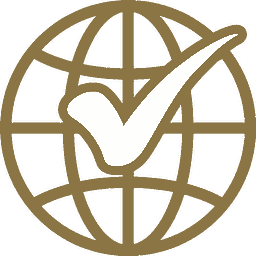
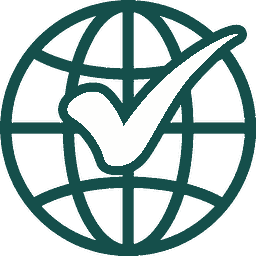
The accent is teal
Two colours, and they turned out to be the shape this palette already
had: one accent expressed twice, dark for light surfaces and light for
dark ones. #134E4A replaces the daylight gold, #4BB8B0 replaces the dusk
gold, and every text-gold, bg-gold and border-gold in twenty five files
follows without being touched. That is what the token was for.

Contrast improved rather than survived. The daylight accent measures
7.95:1 on the raised surface where the gold managed 4.70, so this is the
first accent here that clears AAA in daylight. Dusk sits at 7.06, which
is the AAA line to two decimal places.

The mark is recoloured artwork, not a tint

It is supplied PNG with two flat inks, so the gold ink is remapped pixel
by pixel and scaled by each pixel's own lightness, which keeps the
anti aliasing intact. The white check is untouched: a two ink logo with
one ink recoloured is still the same mark.

It ships twice because one ink cannot serve both modes. The accent is
2.0:1 on the daylight card and the deep teal is 1.2:1 on a dusk surface,
so either alone leaves the mark washed out on half the application. CSS
picks by data-mode, the same attribute the palette already switches on.
The original gold artwork is kept beside them.

The token is still called gold

Renaming it is a hundred and twenty class names across twenty five
files, which is a different change from choosing a colour and should not
share a diff with one. The comment above it says what happened and when.
[…]

diff --git a/resources/js/components/GeoVerifyMark.tsx b/resources/js/components/GeoVerifyMark.tsx
@@ -1,4 +1,5 @@
-import markUrl from '../../images/geoverify-mark.png';
+import markDaylightUrl from '../../images/geoverify-mark.png';
+import markDuskUrl from '../../images/geoverify-mark-dusk.png';
 import { cx } from '@/lib/cx';
 
 /**
@@ -15,8 +16,18 @@ import { cx } from '@/lib/cx';
  * backdrop video is the opposite case and lives in public/ for the same reason
  * inverted: it must never be precached.
  *
- * Not tinted. The gold and the white check are the mark, and both read on the
- * daylight and dusk surfaces this system uses, so there is nothing to recolour.
+ * Two inks, one per mode, because one ink cannot serve both. The accent teal
+ * is 2.0:1 on the daylight card and the deep teal is 1.2:1 on a dusk surface:
+ * either choice alone leaves the mark washed out on half the application. So
+ * the artwork ships twice, recoloured from the original gold, and CSS shows the
+ * one that belongs to the surface underneath it.
+ *
+ * Both are rendered rather than switched in JavaScript. The mode is a data
+ * attribute on a wrapper somewhere above this, not state this component can
+ * read, and a mark that flickered on hydration would be worse than 16 KB.
+ *
+ * The white check is untouched in both. A two ink logo with one ink recoloured
+ * is still the same mark.
  */
 export function GeoVerifyMark({
     size = 24,
@@ -27,18 +38,33 @@ export function GeoVerifyMark({
     className?: string;
     title?: string;
 }) {
+    const shared = {
+        width: size,
+        height: size,
+        alt: title ?? '',
+        // Decorative in the shells, where the name sits beside it in text.
+        // Given a title it becomes a labelled image instead.
+        'aria-hidden': title === undefined ? true : undefined,
+        draggable: false as const,
+    };
+
     return (
-        <img
-            src={markUrl}
-            width={size}
-            height={size}
-            alt={title ?? ''}
-            aria-hidden={title === undefined ? true : undefined}
-            // Decorative in the shells, where the name sits beside it in text.
-            // Given a title it becomes a labelled image instead.
-            className={cx('shrink-0 object-contain', className)}
-            draggable={false}
-        />
+        <>
+            <img
+                src={markDaylightUrl}
+                {...shared}
+                className={cx('gv-mark-daylight shrink-0 object-contain', className)}
+            />
+            <img
+                src={markDuskUrl}
+                {...shared}
+                // Hidden from assistive technology in both cases: the two
+                // images are one mark, and announcing it twice is noise.
+                alt=""
+                aria-hidden
+                className={cx('gv-mark-dusk shrink-0 object-contain', className)}
+            />
+        </>
     );
 }
 

diff --git a/resources/css/app.css b/resources/css/app.css
@@ -67,8 +67,17 @@
     --gv-rule: #d3cfc6;
     --gv-rule-strong: #b4aea2;
 
-    /* Gold is the only accent. It means verification, never decoration. */
-    --gv-gold: #7e642e;
+    /*
+    | One accent, and it means verification, never decoration.
+    |
+    | Teal since 2026-09-09, gold before that. The token is still named gold
+    | because renaming it touches a hundred and twenty class names in twenty
+    | five files, which is a separate change from picking a colour.
+    |
+    | 7.95:1 on the raised surface, measured. The gold it replaced was 4.70,
+    | so this is the first accent here that clears AAA in daylight.
+    */
+    --gv-gold: #134e4a;
     --gv-green: #2a6555;
     --gv-amber: #9a5913;
     --gv-alert: #8f2721;
@@ -109,7 +118,8 @@
     --gv-rule: #25394b;
     --gv-rule-strong: #385064;
 
-    --gv-gold: #d0ae63;
+    /* 7.06:1 on the primary surface, which is the AAA line exactly. */
+    --gv-gold: #4bb8b0;
     --gv-green: #5cc0a4;
     --gv-amber: #ee9c45;
     --gv-alert: #f2938c;
@@ -131,6 +141,26 @@
 | "inline" so the utilities resolve the custom property at use time rather than
 | baking the value in. That is what lets a single class work in both modes.
 */
+/*
+| The mark, one ink per mode.
+|
+| Selected in CSS rather than in the component, because data-mode is set on a
+| wrapper the mark cannot see and switching in JavaScript would flash the wrong
+| ink on hydration. Daylight is the default here exactly as it is in the palette
+| above, so the dusk copy is the one that has to ask.
+*/
+.gv-mark-dusk {
+    display: none;
+}
+
+[data-mode='dusk'] .gv-mark-dusk {
+    display: block;
+}
+
+[data-mode='dusk'] .gv-mark-daylight {
+    display: none;
+}
+
 @theme inline {
     --color-surface: var(--gv-surface);
     --color-raised: var(--gv-surface-raised);

diff --git a/resources/js/pages/console/Live.tsx b/resources/js/pages/console/Live.tsx
@@ -191,7 +191,7 @@ export default function Live({ live, bounds, areas, filters }: LiveProps) {
                 source: 'traces',
                 layout: { 'line-cap': 'round', 'line-join': 'round' },
                 paint: {
-                    'line-color': ['case', ['get', 'active'], '#D0AE63', '#5A6B7A'],
+                    'line-color': ['case', ['get', 'active'], '#4BB8B0', '#5A6B7A'],
                     'line-width': 1.8,
                     'line-opacity': 0.85,
                 },
@@ -203,7 +203,7 @@ export default function Live({ live, bounds, areas, filters }: LiveProps) {
                 source: 'officers',
                 paint: {
                     'circle-radius': 12,
-                    'circle-color': ['case', ['get', 'active'], '#D0AE63', '#5A6B7A'],
+                    'circle-color': ['case', ['get', 'active'], '#4BB8B0', '#5A6B7A'],
                     'circle-opacity': 0.18,
                 },
             });
@@ -219,7 +219,7 @@ export default function Live({ live, bounds, areas, filters }: LiveProps) {
                         ['get', 'mock'],
                         '#C2564B',
                         ['get', 'active'],
-                        '#D0AE63',
+                        '#4BB8B0',
                         '#5A6B7A',
                     ],
                     'circle-stroke-color': '#0E1E2E',

diff --git a/resources/js/pages/Design.tsx b/resources/js/pages/Design.tsx
@@ -92,7 +92,7 @@ interface Swatch {
 }
 
 const SWATCHES: readonly Swatch[] = [
-    { name: 'gold', daylight: '#7E642E', dusk: '#D0AE63', meaning: 'Verification, active, emphasis', ratio: '4.70 / 7.97' },
+    { name: 'gold', daylight: '#134E4A', dusk: '#4BB8B0', meaning: 'Verification, active, emphasis', ratio: '7.95 / 7.06' },
     { name: 'green', daylight: '#2A6555', dusk: '#5CC0A4', meaning: 'Confirmed, complete', ratio: '5.70 / 7.66' },
     { name: 'amber', daylight: '#9A5913', dusk: '#EE9C45', meaning: 'Needs review, low confidence', ratio: '4.62 / 7.62' },
     { name: 'alert', daylight: '#8F2721', dusk: '#F2938C', meaning: 'Rejected, conflict, failure', ratio: '7.11 / 7.50' },

diff --git a/resources/js/lib/mapStyle.ts b/resources/js/lib/mapStyle.ts
@@ -48,7 +48,7 @@ export function readPalette(element: HTMLElement): Palette {
         faint: read('--gv-text-faint', '#7e8c99'),
         rule: read('--gv-rule', '#25394b'),
         ruleStrong: read('--gv-rule-strong', '#385064'),
-        gold: read('--gv-gold', '#d0ae63'),
+        gold: read('--gv-gold', '#4bb8b0'),
         green: read('--gv-green', '#5cc0a4'),
         amber: read('--gv-amber', '#ee9c45'),
         graphite: read('--gv-graphite', '#a2b0bb'),

diff --git a/resources/js/pages/console/Coverage.tsx b/resources/js/pages/console/Coverage.tsx
@@ -264,7 +264,7 @@ export default function Coverage({ area, summary }: CoverageProps) {
                     id: 'mandate-line',
                     type: 'line',
                     source: 'mandate',
-                    paint: { 'line-color': '#D0AE63', 'line-width': 1.8 },
+                    paint: { 'line-color': '#4BB8B0', 'line-width': 1.8 },
                 });
 
                 setLoadedCells(cells.features.length);

diff --git a/resources/js/app.tsx b/resources/js/app.tsx
@@ -32,8 +32,8 @@ void createInertiaApp({
         createRoot(el).render(<App {...props} />);
     },
     progress: {
-        // Gold, matching the verification accent. Sync state is never a mystery.
-        color: '#D0AE63',
+        // The verification accent. Sync state is never a mystery.
+        color: '#4BB8B0',
     },
 });
 

diff --git a/resources/views/exports/consent-receipt.blade.php b/resources/views/exports/consent-receipt.blade.php
@@ -105,7 +105,7 @@
         .disclosure {
             margin: 0;
             padding: 4mm 5mm;
-            border-left: 1.5pt solid #D0AE63;
+            border-left: 1.5pt solid #134E4A;
             background: #F4F1EA;
             font-size: 11pt;
             line-height: 1.6;
